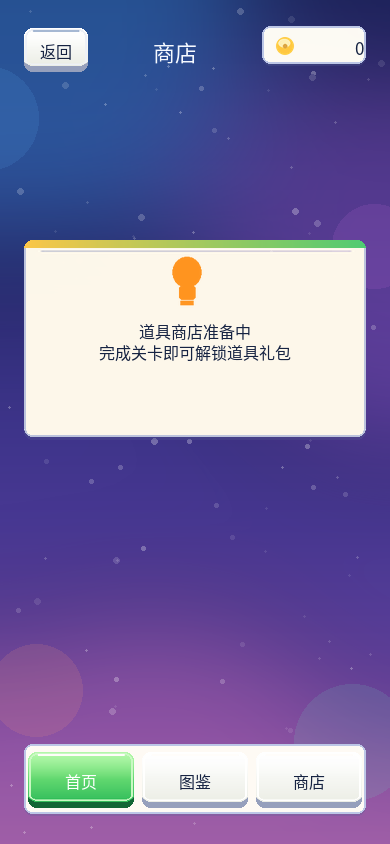
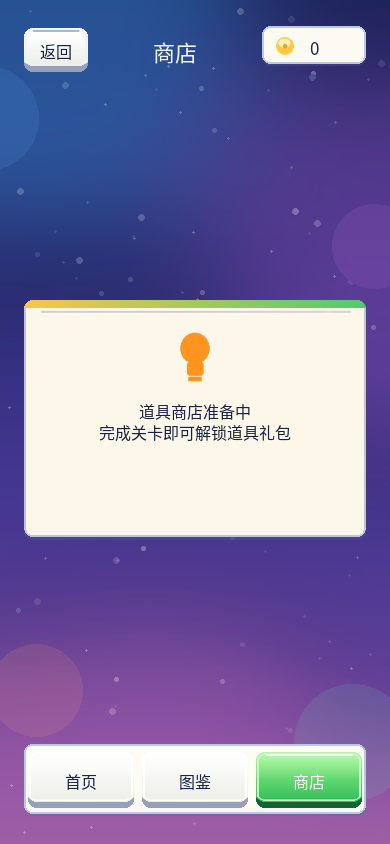
商业化 UI 收尾 R9-R10：统一设置页栅格、空态居中、导航选中态与预览画幅

diff --git a/Tools/UIAuthoring/apply_beads_to_all.py b/Tools/UIAuthoring/apply_beads_to_all.py
@@ -89,19 +89,19 @@ LIST_FIX = {
     ('BlockOutCollectionPage', 'CollectionCoinText'): dict(
         rect=(262, 26, 104, 40), bg=('pill', WHITE, 1),
         icon=('icon_coin', WHITE, (10, 7, 26, 26)),
-        text_color=INK, size=17, align=5),
+        text_color=INK, size=17, align=4),
     ('BlockOutStorePage', 'StoreCoinText'): dict(
         rect=(262, 26, 104, 40), bg=('pill', WHITE, 1),
         icon=('icon_coin', WHITE, (10, 7, 26, 26)),
-        text_color=INK, size=17, align=5),
+        text_color=INK, size=17, align=4),
     ('BlockOutCollectionPage', 'CollectionEmptyText'): dict(
         rect=(0, 0, 342, 56), bg=('pill', WHITE, 1),
         icon=('icon_lock', INK_SOFT, (14, 12, 32, 32)),
         text='还没有拼片\n完成关卡即可解锁完整作品',
         text_color=INK, size=13, align=4),
     ('BlockOutStorePage', 'StoreEmptyText'): dict(
-        rect=(24, 240, 342, 200), bg=('panel', CREAM, 1),
-        icon=('icon_bulb', (1, .58, .12, 1), (131, 8, 64, 64)),
+        rect=(24, 300, 342, 240), bg=('panel', CREAM, 1),
+        icon=('icon_bulb', (1, .58, .12, 1), (139, 24, 64, 64)),
         text='道具商店准备中\n完成关卡即可解锁道具礼包',
         text_color=INK, size=16, align=4),
     ('BlockOutCollectionPage', 'Cells'): dict(
@@ -109,6 +109,21 @@ LIST_FIX = {
     # 章节条目：金色珠子改成作品缩略封面，锁图标用深墨蓝重新染色
     ('ChapterItem', 'Thumbnail'): dict(image=('art_home', WHITE, 0, 1)),
     ('ChapterItem', 'LockIcon'): dict(image=('icon_lock', INK, 0, 1)),
+}
+
+# R9 栅格规范：设置页原来是 772 高的全屏卡，三个开关挤在上半部，
+# 中间留下近 250px 空白。改成 342×472 居中标准卡：行高 64/52，
+# 间距 16~24，底留白 24，与 444 高的弹窗卡片同一套节奏。
+GRID_FIX = {
+    'BlockOutSettingsPage': {
+        'Card': (24, 186, 342, 472),
+        'Heading': (16, 20, 310, 36),
+        'SettingsMusicSwitch': (24, 80, 294, 64),
+        'SettingsSoundSwitch': (24, 160, 294, 64),
+        'SettingsVibSwitch': (24, 240, 294, 64),
+        'SettingsAboutBtn': (24, 328, 294, 52),
+        'SettingsCloseBtn': (24, 396, 294, 52),
+    },
 }
 
 BUTTON_GUID = re.search(r'^guid: (\w+)', next(PACKAGE.rglob('Button.cs.meta')).read_text(
@@ -510,6 +525,18 @@ def reskin(path, stem):
             fd['m_FontSize'] = rule.get('size', 16)
             fd['m_Alignment'] = rule.get('align', 4)
 
+    # ---- R9 栅格规范落盘：只改 RectTransform 数值，不动节点名/字段/组件 ----
+    for cls, fid, _, d in docs:
+        if cls != 1:
+            continue
+        rule = GRID_FIX.get(stem, {}).get(d['m_Name'])
+        if not rule:
+            continue
+        rt = rt_by_go.get(fid)
+        x, y, w, h = rule
+        byid[rt][2]['m_AnchoredPosition'] = {'x': x, 'y': -y}
+        byid[rt][2]['m_SizeDelta'] = {'x': w, 'y': h}
+
     # 每个页面在 DesignSurface 下加一层散珠装饰，放到子节点最前面（最底层）
     surface_rt = None
     surface_go = None
@@ -619,6 +646,57 @@ def polish_typography():
     return changed
 
 
+# R10：底部导航选中态。备份里三个导航按钮颜色相同，换肤后一律渲染成
+# 「首页绿 + 其余白」，图鉴/商店页的选中态因此永远是错的。
+NAV_STATE = {
+    'BlockOutCollectionPage': (('CollectionNavHomeBtn',
+                                'CollectionNavCollectionBtn',
+                                'CollectionNavStoreBtn'), 1),
+    'BlockOutStorePage': (('StoreNavHomeBtn',
+                           'StoreNavCollectionBtn',
+                           'StoreNavStoreBtn'), 2),
+}
+
+
+def fix_nav_state():
+    changed = 0
+    for stem, (names, active) in NAV_STATE.items():
+        path = DEST / (stem + '.prefab')
+        docs = parse(path)
+        byid = {fid: (cls, name, d) for cls, fid, name, d in docs}
+        go_by_name = {d['m_Name']: fid for cls, fid, _, d in docs if cls == 1}
+        rt_by_go = {d['m_GameObject']['fileID']: fid
+                    for cls, fid, _, d in docs if cls == 224}
+        go_of_rt = {fid: d['m_GameObject']['fileID']
+                    for cls, fid, _, d in docs if cls == 224}
+
+        def comps(goid):
+            return [byid[c['component']['fileID']][2]
+                    for c in byid[goid][2].get('m_Component', [])
+                    if c['component']['fileID'] in byid]
+
+        for i, nm in enumerate(names):
+            goid = go_by_name.get(nm)
+            if goid is None:
+                continue
+            img = next((c for c in comps(goid) if 'm_Sprite' in c), None)
+            if img is not None:
+                img['m_Sprite'] = SPR['btn_green' if i == active else 'btn_white']
+                img['m_Color'] = rgba(WHITE)
+                img['m_Type'] = 1
+                changed += 1
+            rt = rt_by_go.get(goid)
+            for ch in byid[rt][2].get('m_Children', []) if rt in byid else []:
+                cgo = go_of_rt.get(ch['fileID'])
+                if cgo is None:
+                    continue
+                for t in comps(cgo):
+                    if 'm_Text' in t:
+                        t['m_Color'] = rgba(WHITE if i == active else INK)
+        dump(docs, path)
+    return changed
+
+
 def backup_all():
     BACKUP.mkdir(parents=True, exist_ok=True)
     files = []
@@ -659,3 +737,4 @@ if __name__ == '__main__':
               f'/ 孔板 {st["holes"]} / 散珠 {st["decor"]}')
     print('合计:', total, '| 覆盖', len(files), '个预制')
     print('字号规范: 抬升', polish_typography(), '处小于 12px 的文字（不使用伪粗体）')
+    print('导航选中态: 修正', fix_nav_state(), '处按钮外观')

diff --git a/Tools/UIAuthoring/render_all_prefabs.py b/Tools/UIAuthoring/render_all_prefabs.py
@@ -242,10 +242,11 @@ def render(path):
         # 列表项单独预览也铺同一张夜空底，避免浅青底与整套深蓝紫体系割裂
         sky_path = next((p for p in GUID2FILE.values() if p.name == 'sky.png'), None)
         sky = Image.open(sky_path).convert('RGBA') if sky_path else None
-        canvas = Image.new('RGBA', (W, int(root_rect[3]) + 48), (59, 50, 131, 255))
+        # 画布统一到 390×844，卡片垂直居中；全览拼图里矮列表项不再像空位
+        canvas = Image.new('RGBA', (W, H), (59, 50, 131, 255))
         if sky:
-            canvas.alpha_composite(sky.crop((0, 0, W, min(sky.height, canvas.height))))
-        offset = (24, 24)
+            canvas.alpha_composite(sky.crop((0, 0, W, min(sky.height, H))))
+        offset = (24, max(24, (H - root_rect[3]) / 2))
     else:
         canvas = Image.new('RGBA', (W, H), (255, 255, 255, 255))
         offset = (0, 0)
@@ -360,21 +361,22 @@ def contact_sheet(paths):
     pad, title_h, cols = 12, 26, 5
     rows = math.ceil(len(paths) / cols)
     sheet = Image.new('RGB', (cols * (cw + pad) + pad,
-                              rows * (ch + title_h + pad) + pad), (238, 241, 250))
+                              rows * (ch + title_h + pad) + pad), (26, 24, 62))
     d = ImageDraw.Draw(sheet)
     font = ImageFont.truetype(str(FONT_PATH), 16)
     head = ImageFont.truetype(str(FONT_PATH), 20)
-    d.text((pad + 4, 2), 'BlockOut · 商业化 UI 逐轮验收', fill=(30, 40, 72), font=head)
+    d.text((pad + 4, 2), 'BlockOut · 商业化 UI 逐轮验收', fill=(228, 232, 255), font=head)
     for i, p in enumerate(paths):
         x = pad + (i % cols) * (cw + pad)
         y = pad + title_h + (i // cols) * (ch + title_h + pad)
+        d.rectangle((x, y, x + cw, y + ch), fill=(34, 31, 78))
         im = Image.open(p).convert('RGB')
         s = min(cw / im.width, ch / im.height)
         nw, nh = max(1, int(im.width * s)), max(1, int(im.height * s))
         thumb = im.resize((nw, nh), Image.LANCZOS)
         sheet.paste(thumb, (x + (cw - nw) // 2, y + (ch - nh) // 2))
         d.text((x + 4, y + ch + 4), CN.get(p.stem, p.stem),
-               fill=(40, 52, 88), font=font)
+               fill=(214, 220, 248), font=font)
     sheet.save(OUT / '00_全览.png')
     return OUT / '00_全览.png'
 
